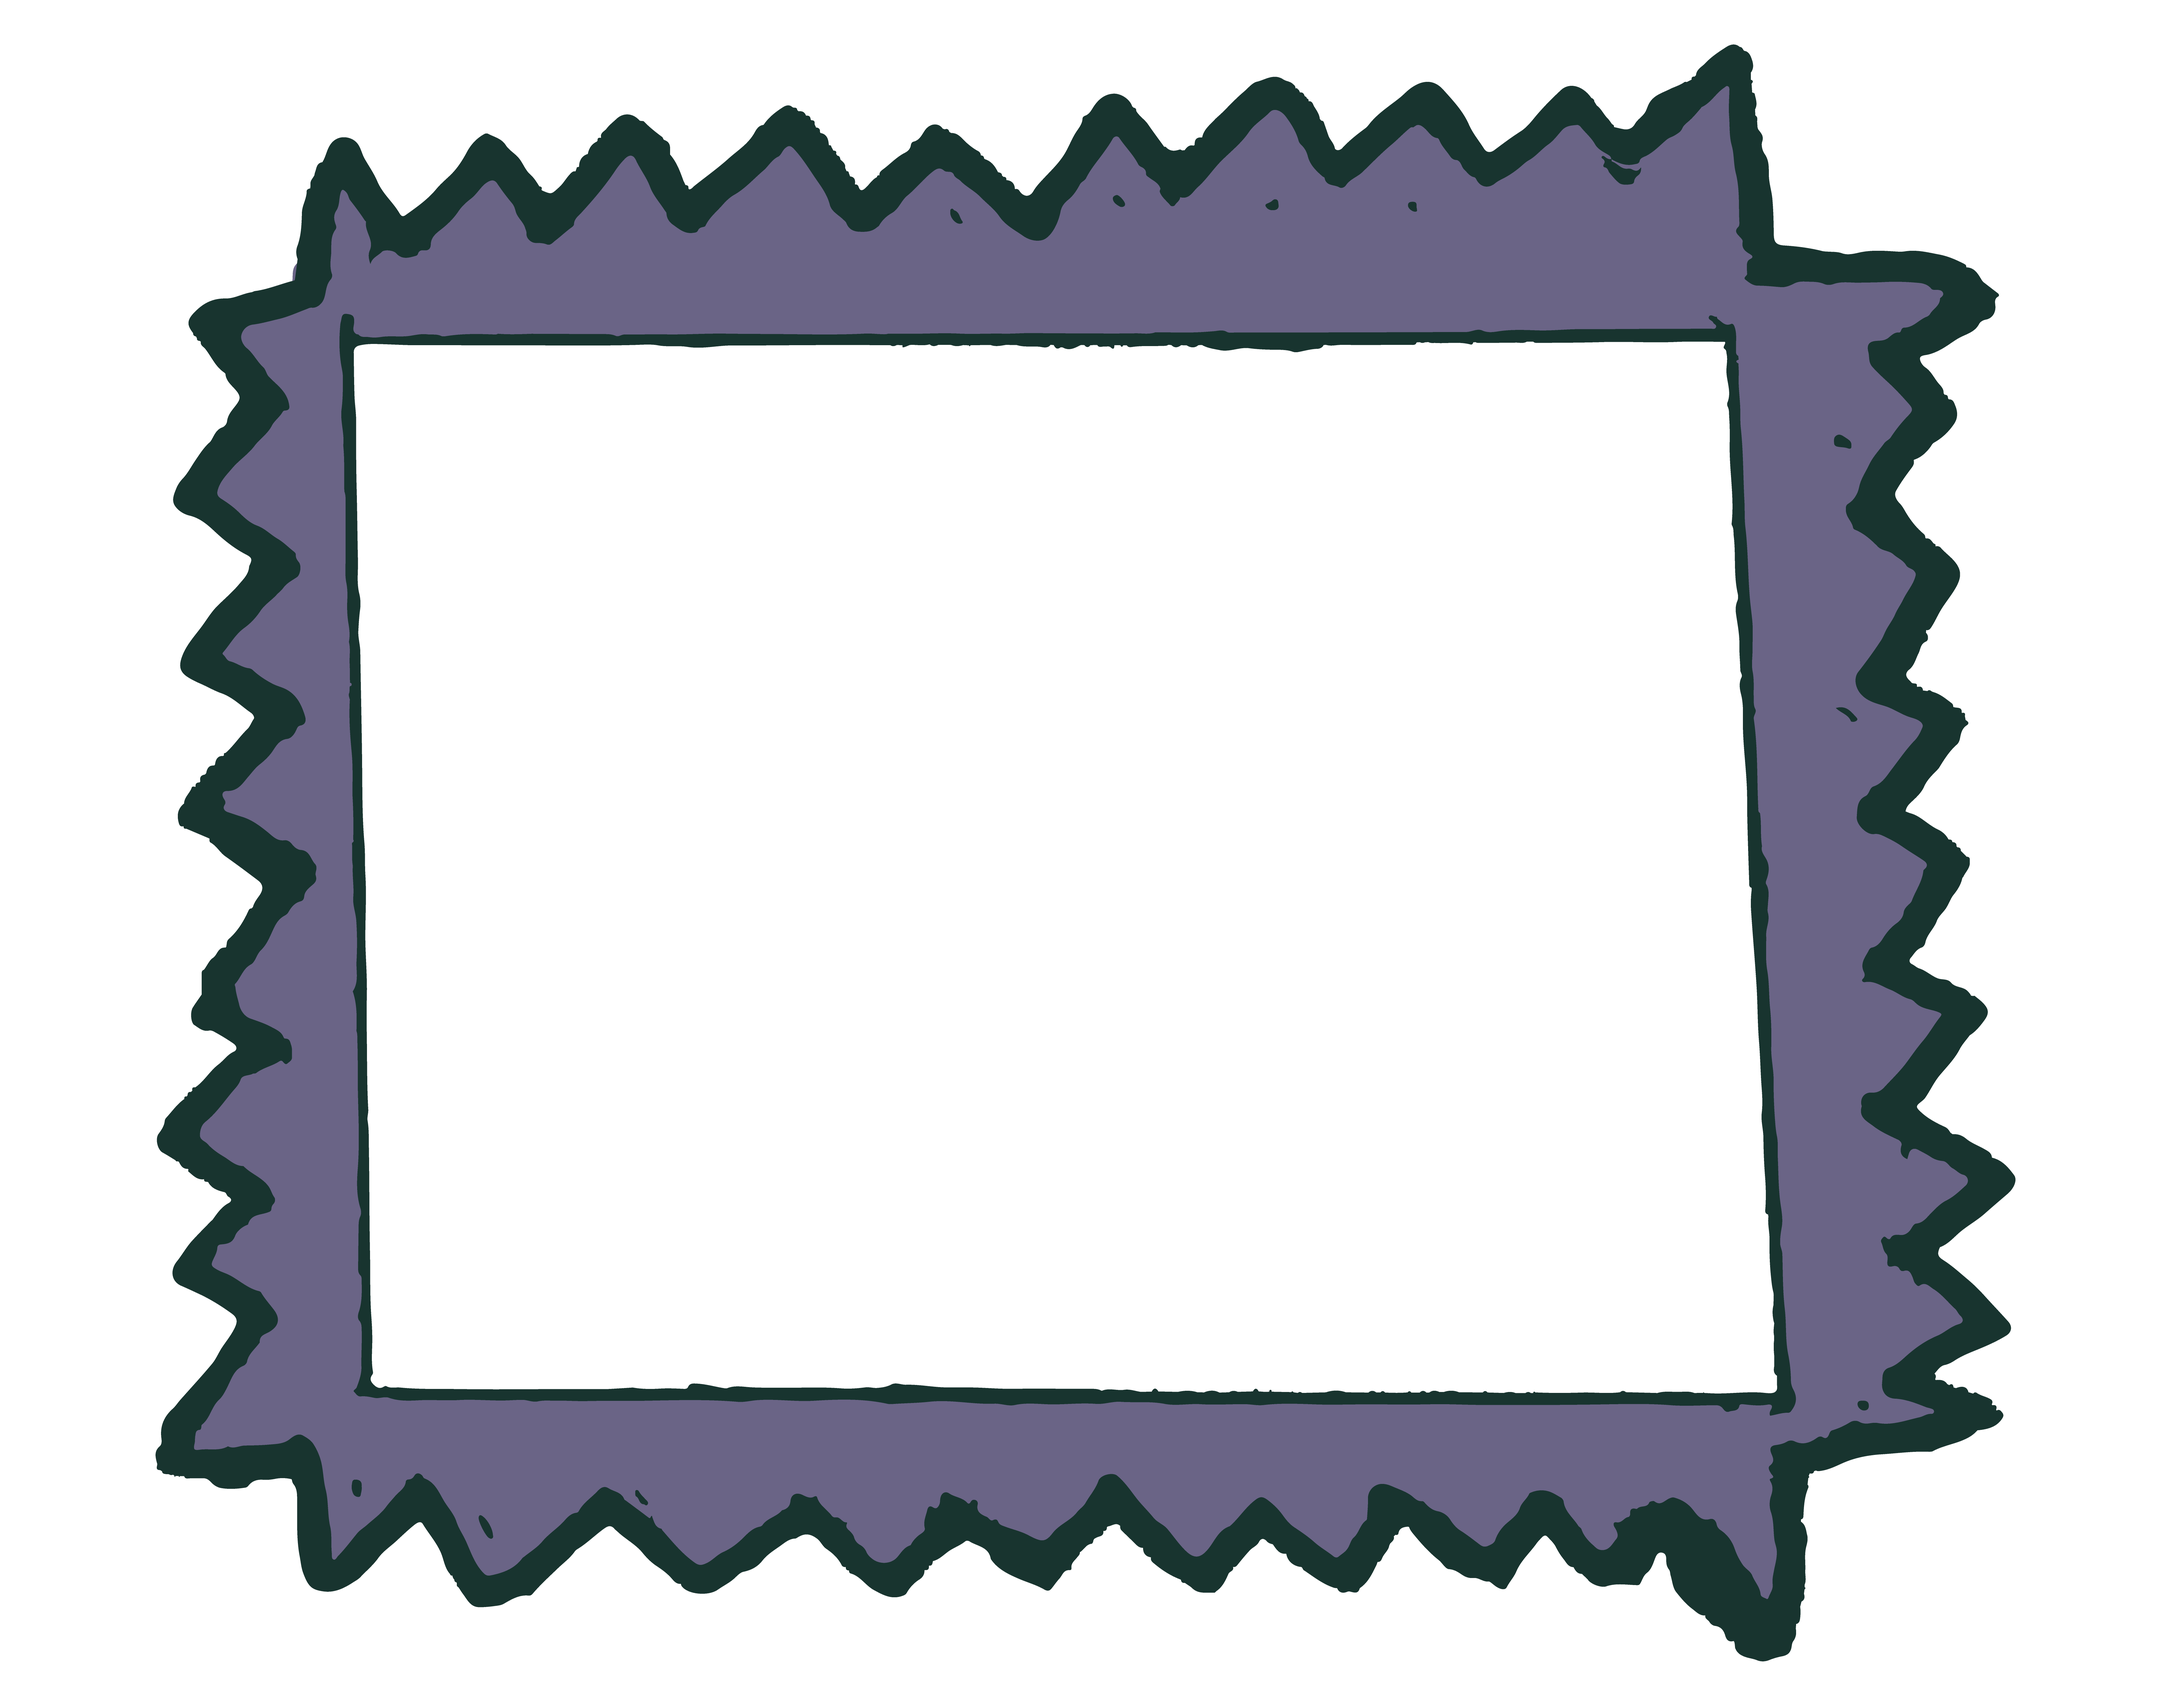
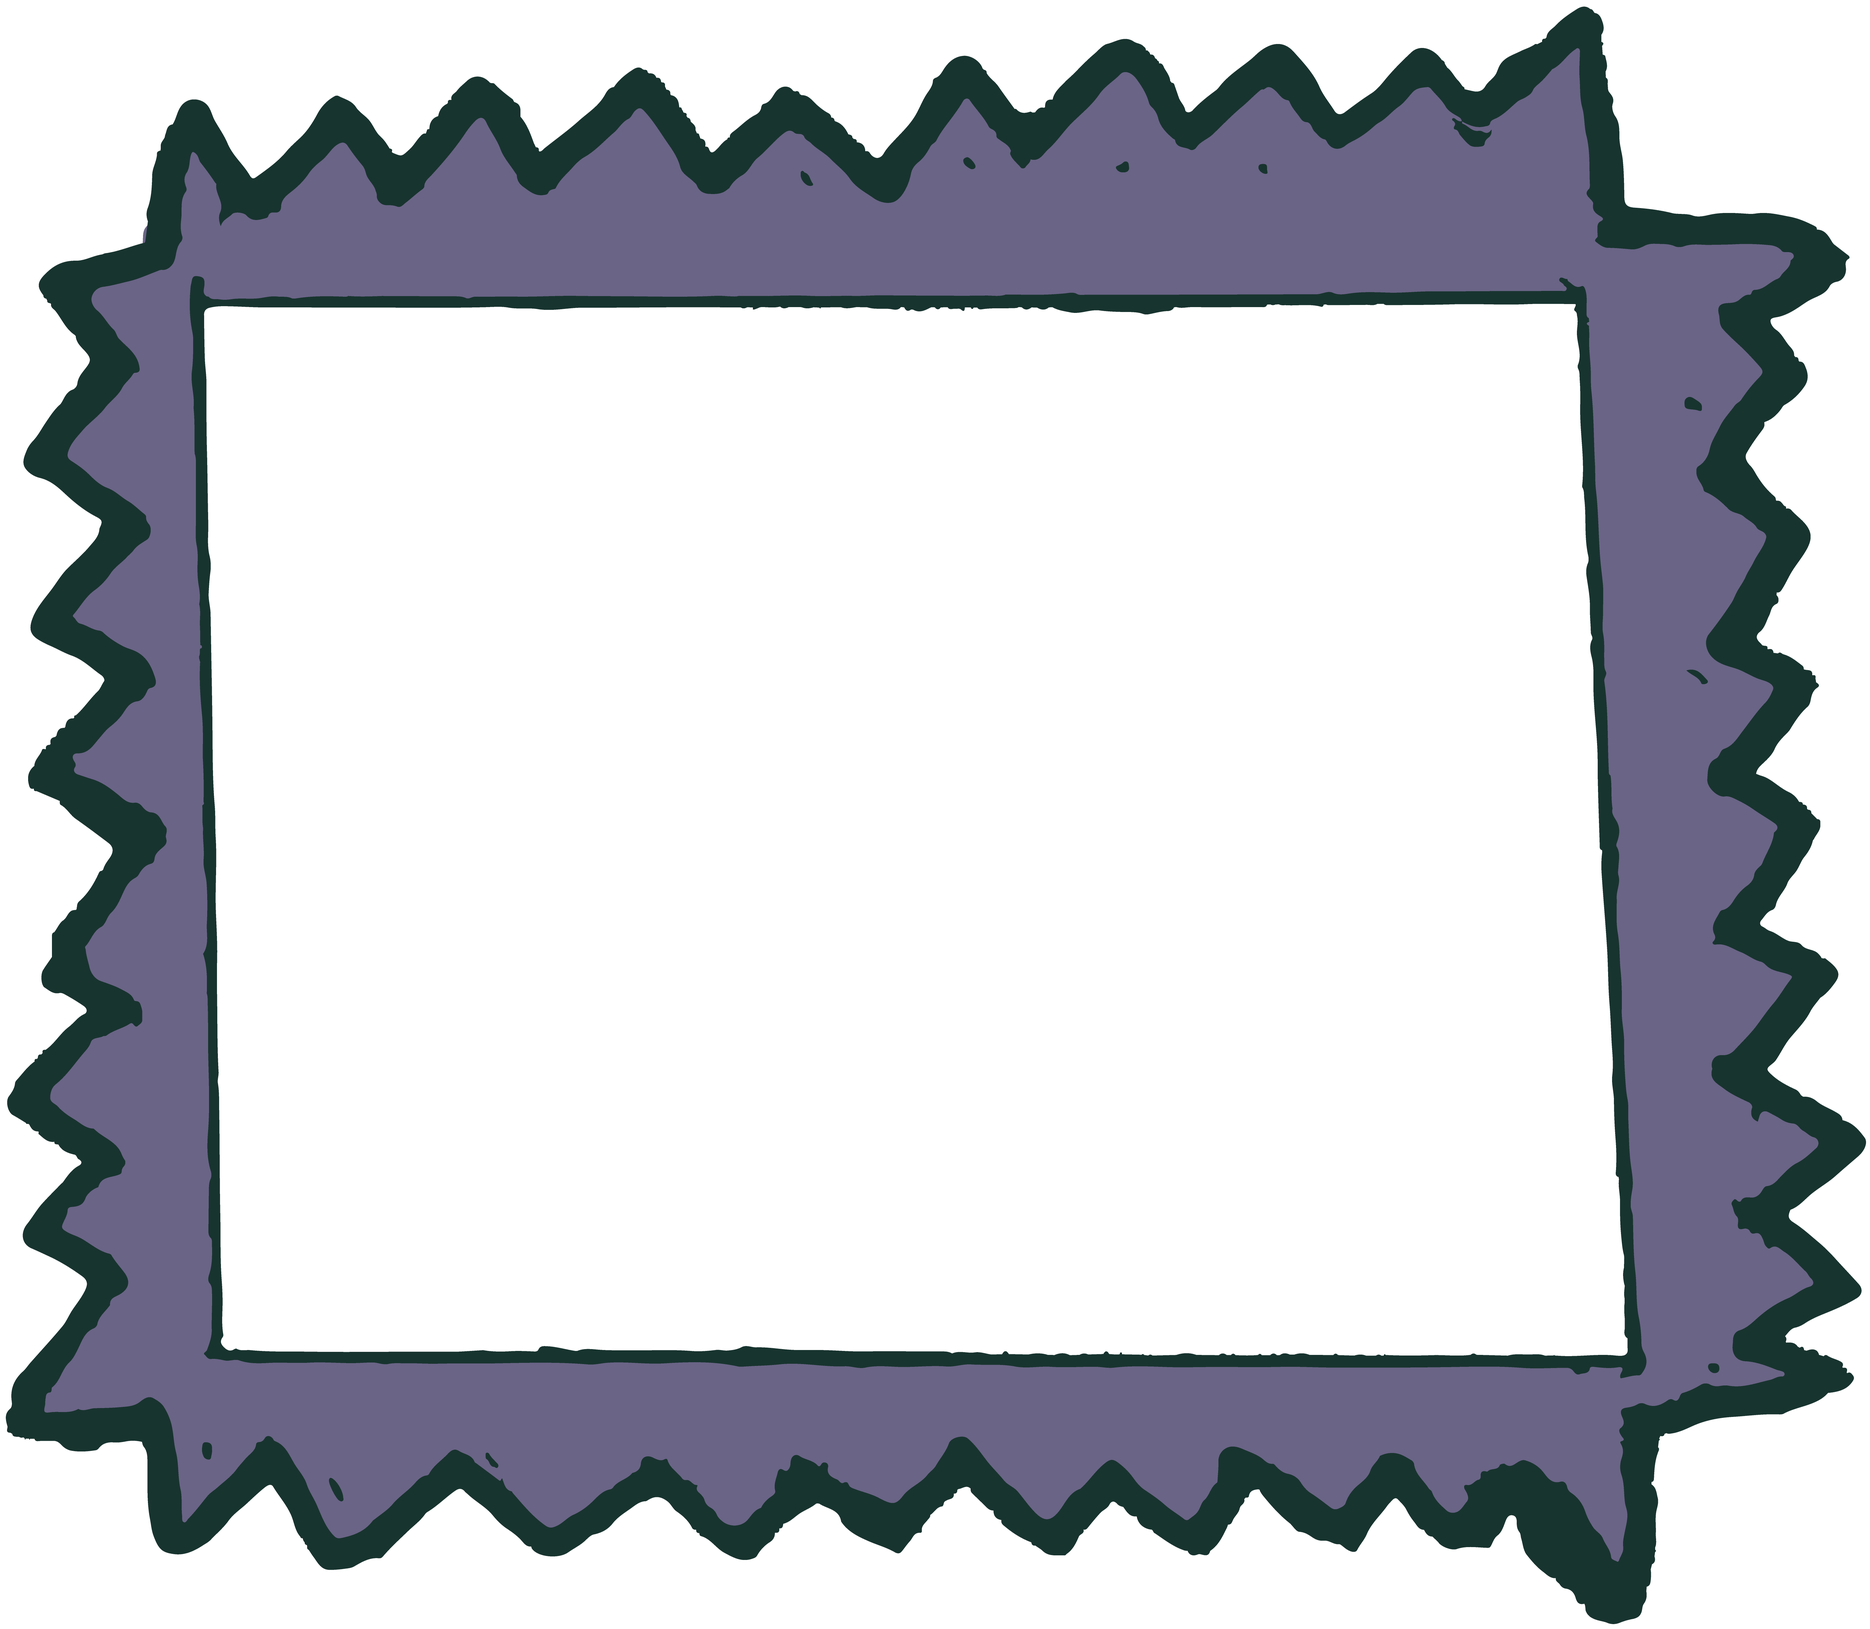
frames getting there

diff --git a/draft5.html b/draft5.html
@@ -44,17 +44,21 @@
 		<div class="xcontainer">
 		<img class="x" src="content/x3.png" onclick="changeDoorState('media')">
 		</div>
+		<div class="video-container">
 		<div class="video">
 		<!--<img class="frame" src="content/frame1.png">-->
-		<iframe class="player" src="https://player.vimeo.com/video/427136848" frameborder="0" allow="autoplay; fullscreen" allowfullscreen></iframe><script src="https://player.vimeo.com/api/player.js"></script>	
+		<!--<div class="frame">-->
+		<iframe class="player" src="https://player.vimeo.com/video/425790105?byline=0" frameborder="0" allow="autoplay; fullscreen" align="middle" style="height: 80%;" allowfullscreen></iframe><script src="https://player.vimeo.com/api/player.js"></script>
+		<!--</div>-->
+		<p class="description">This is the description of the video.</p>
+	</div>
+	</div>
+	<div class="video">
+		<iframe class="player" style="height: 80%;" src="https://www.youtube.com/embed/DzRCEWtn8fU" frameborder="0" allow="accelerometer; autoplay; encrypted-media; gyroscope; picture-in-picture" allowfullscreen></iframe>
 		<p class="description">This is the description of the video.</p>
 	</div>
 	<div class="video">
-		<iframe class="player" src="https://player.vimeo.com/video/427136848" frameborder="0" allow="autoplay; fullscreen" allowfullscreen></iframe><script src="https://player.vimeo.com/api/player.js"></script>	
-		<p class="description">This is the description of the video.</p>
-	</div>
-	<div class="video">
-		<iframe class="player" src="https://player.vimeo.com/video/427136848" frameborder="0" allow="autoplay; fullscreen" allowfullscreen></iframe><script src="https://player.vimeo.com/api/player.js"></script>	
+		<iframe class="player" src="https://player.vimeo.com/video/425790105?byline=0" frameborder="0" allow="autoplay; fullscreen" allowfullscreen></iframe><script src="https://player.vimeo.com/api/player.js"></script>	
 		<p class="description">This is the description of the video.</p>
 	</div>
 	</div>

diff --git a/styles-updated.scss b/styles-updated.scss
@@ -82,26 +82,59 @@ $overlay-opacity-time: 2s;
 	z-index: 1;
 }
 
-.video {
-	width: 100%;
-	max-height: 50%;
-	height: 40%;
-	min-height: 40vh;
+$video-div-size: 40vh;
+$player-size: 80%;
+$frame1-left: 732px;
+$frame1-right: 970px;
+$frame1-top: 1000px;
+$frame1-bottom: 930px;
+$frame1-width: 6119px;
+$frame1-height: 5331px;
+$frame2-left: 955px;
+$frame2-right: 953px;
+$frame2-top: 1346px;
+$frame2-bottom: 991px;
+$frame2-width: 5972px;
+$frame2-height: 5354px;
+$frame3-left: 981px;
+$frame3-right: 930px;
+$frame3-top: 1080px;
+$frame3-bottom: 940px;
+$frame3-width: 6263px;
+$frame3-height: 5261px;
+.video-container {
+	height: $video-div-size;
+	margin-top: 5%;
+	background-image: url(content/frame1.png);
+	background-repeat: no-repeat;
+	background-position: 15% center;
+	background-size: auto 100%;
 	position: relative;
 	display: block;
 	column-count: 2;
-	margin-top: 5%;
+}
+.video {
+	width: auto;
+	height: 80%;
 }
 .frame {
 	width: auto;
-	top: -15%;
+	/*max-width: 90%;*/
+	//max-height: 80%;
 	height: 130%;
 	left: 5%;
+	/*background-image: url(content/frame1.png);
+	background-position: center center;
+	background-size: 100%;*/ 
 	position: absolute;
 	display: inline;
 }
+/*.frame1 {
+	position: absolute;
+	display: inline;
+}*/
 .player {
-	width: auto;
+	/*width: auto;
 	max-width: 40%;
 	height: 100%;
 	left: 10%;
@@ -110,7 +143,19 @@ $overlay-opacity-time: 2s;
 	display: inline;
 	background-image: url(content/frame1.png);
 	background-position: center center;
-	background-size: cover;
+	background-size: cover;*/
+	text-align: center;
+	align: center;
+	max-height: 80%;
+	width: auto;
+	left: 15%;
+	position: relative;
+	/*position: absolute;
+	height: $player-size;
+	width: auto;
+	top: 2%;
+	width: auto;
+	left: 5%;*/
 }
 p.description {
 	left: 55%;

diff --git a/styles-updated.css b/styles-updated.css
@@ -32,28 +32,41 @@ body {
   z-index: 1;
 }
 
-.video {
-  width: 100%;
-  max-height: 50%;
-  height: 40%;
-  min-height: 40vh;
+.video-container {
+  height: 40vh;
+  margin-top: 5%;
+  background-image: url(content/frame1.png);
+  background-repeat: no-repeat;
+  background-position: 15% center;
+  background-size: auto 100%;
   position: relative;
   display: block;
   column-count: 2;
-  margin-top: 5%;
+}
+
+.video {
+  width: auto;
+  height: 80%;
 }
 
 .frame {
   width: auto;
-  top: -15%;
+  /*max-width: 90%;*/
   height: 130%;
   left: 5%;
+  /*background-image: url(content/frame1.png);
+  background-position: center center;
+  background-size: 100%;*/
   position: absolute;
   display: inline;
 }
 
+/*.frame1 {
+	position: absolute;
+	display: inline;
+}*/
 .player {
-  width: auto;
+  /*width: auto;
   max-width: 40%;
   height: 100%;
   left: 10%;
@@ -62,7 +75,19 @@ body {
   display: inline;
   background-image: url(content/frame1.png);
   background-position: center center;
-  background-size: cover;
+  background-size: cover;*/
+  text-align: center;
+  align: center;
+  max-height: 80%;
+  width: auto;
+  left: 15%;
+  position: relative;
+  /*position: absolute;
+  height: $player-size;
+  width: auto;
+  top: 2%;
+  width: auto;
+  left: 5%;*/
 }
 
 p.description {
